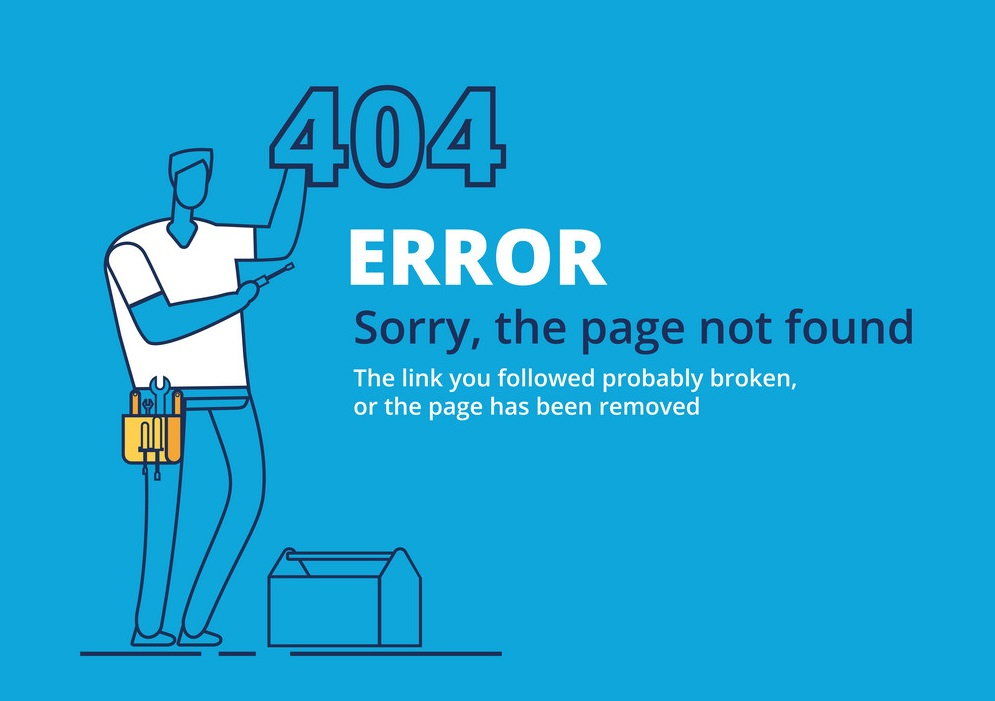
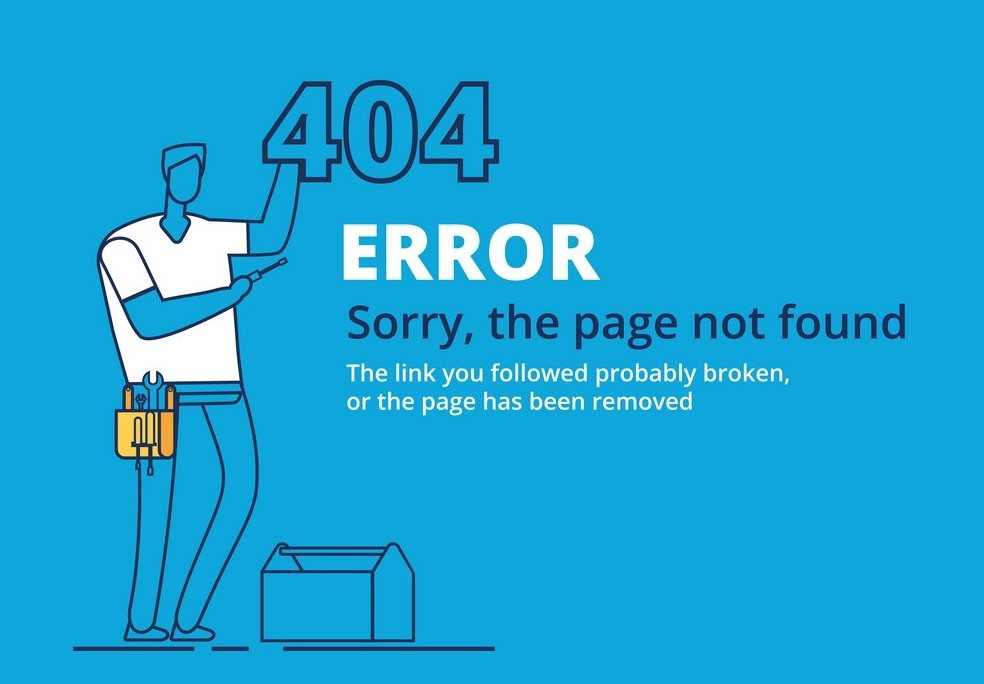
Page Not Found-Added Image

Changed region(s): [[0.061, 0.0921, 0.5183, 0.9518], [0.3354, 0.307, 0.9451, 0.614]]

diff --git a/src/app/page-not-found/page-not-found.component.css b/src/app/page-not-found/page-not-found.component.css
@@ -1,8 +1,11 @@
-.back
-{
-  width: 100%;
-  height: 100vh;
-  position: relative;
-  background-size: cover; 
-  background:url("../../assets/imgs/not-found.jpg") center top no-repeat;
-}
+
+.back{
+    background-image: url("../../assets/imgs/404-Page.jpg"); /* The image used */
+    background-color: #cccccc; /* Used if the image is unavailable */
+    width:100%;
+    height:100vh; /* You must set a specified height */
+    background-position: center; /* Center the image */
+    background-repeat: no-repeat; /* Do not repeat the image */
+    background-size: cover; /* Resize the background image to cover the entire container */
+  }
+

diff --git a/src/app/app-routing.module.ts b/src/app/app-routing.module.ts
@@ -19,6 +19,7 @@ import { PageNotFoundComponent } from './page-not-found/page-not-found.component
 
 const routes: Routes = [
   {path:'',component:HomeComponent},
+  {path:'home',component:HomeComponent},
   {path:'login',component:LoginComponent},
   {path:'signup',component:SignUpComponent},
 

diff --git a/src/app/page-not-found/page-not-found.component.html b/src/app/page-not-found/page-not-found.component.html
@@ -1,6 +1,4 @@
-<app-nav-index></app-nav-index>
+<div class="back">
 
-<div class="container back">
 
 </div>
-<app-home-footer></app-home-footer>
